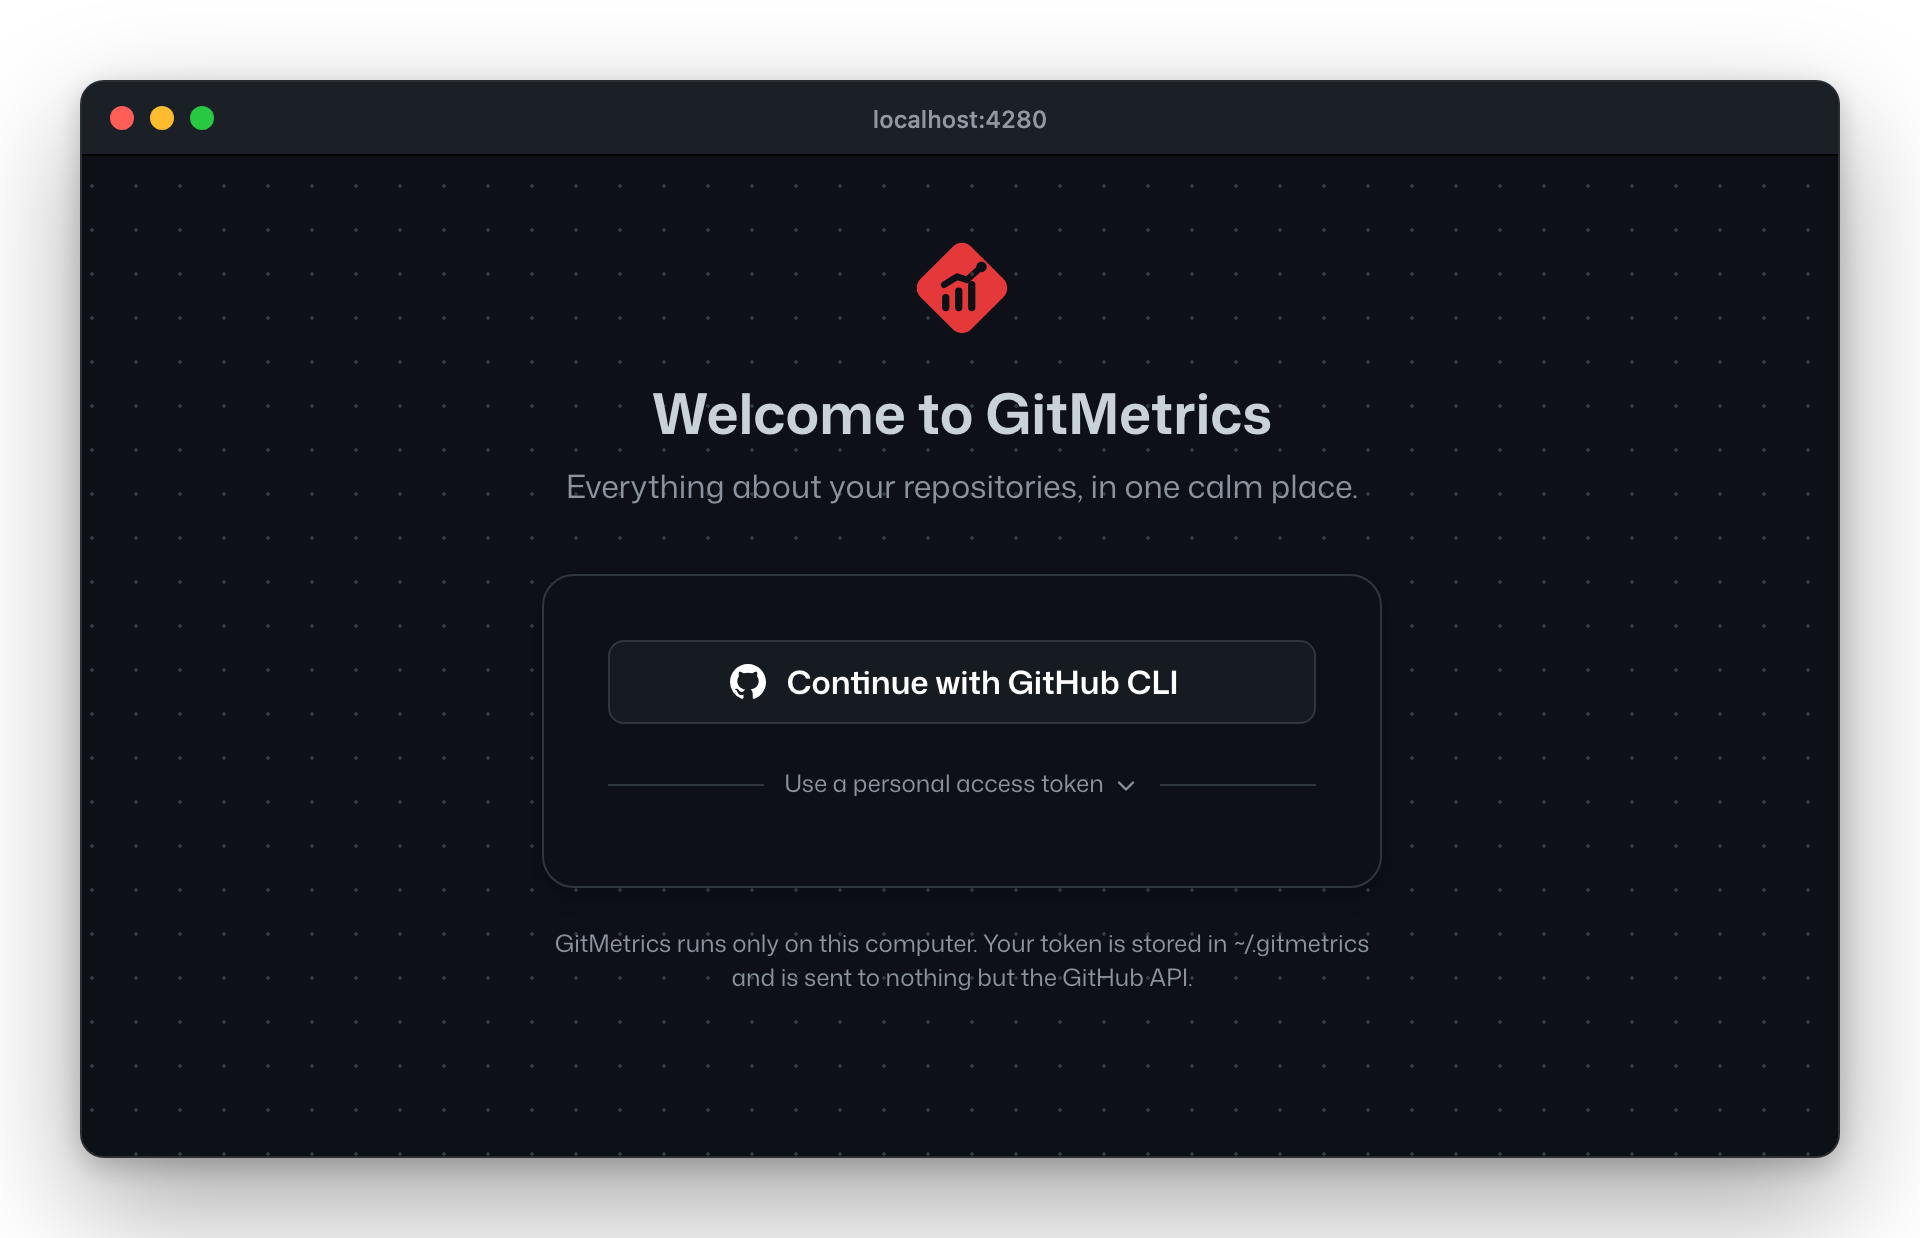
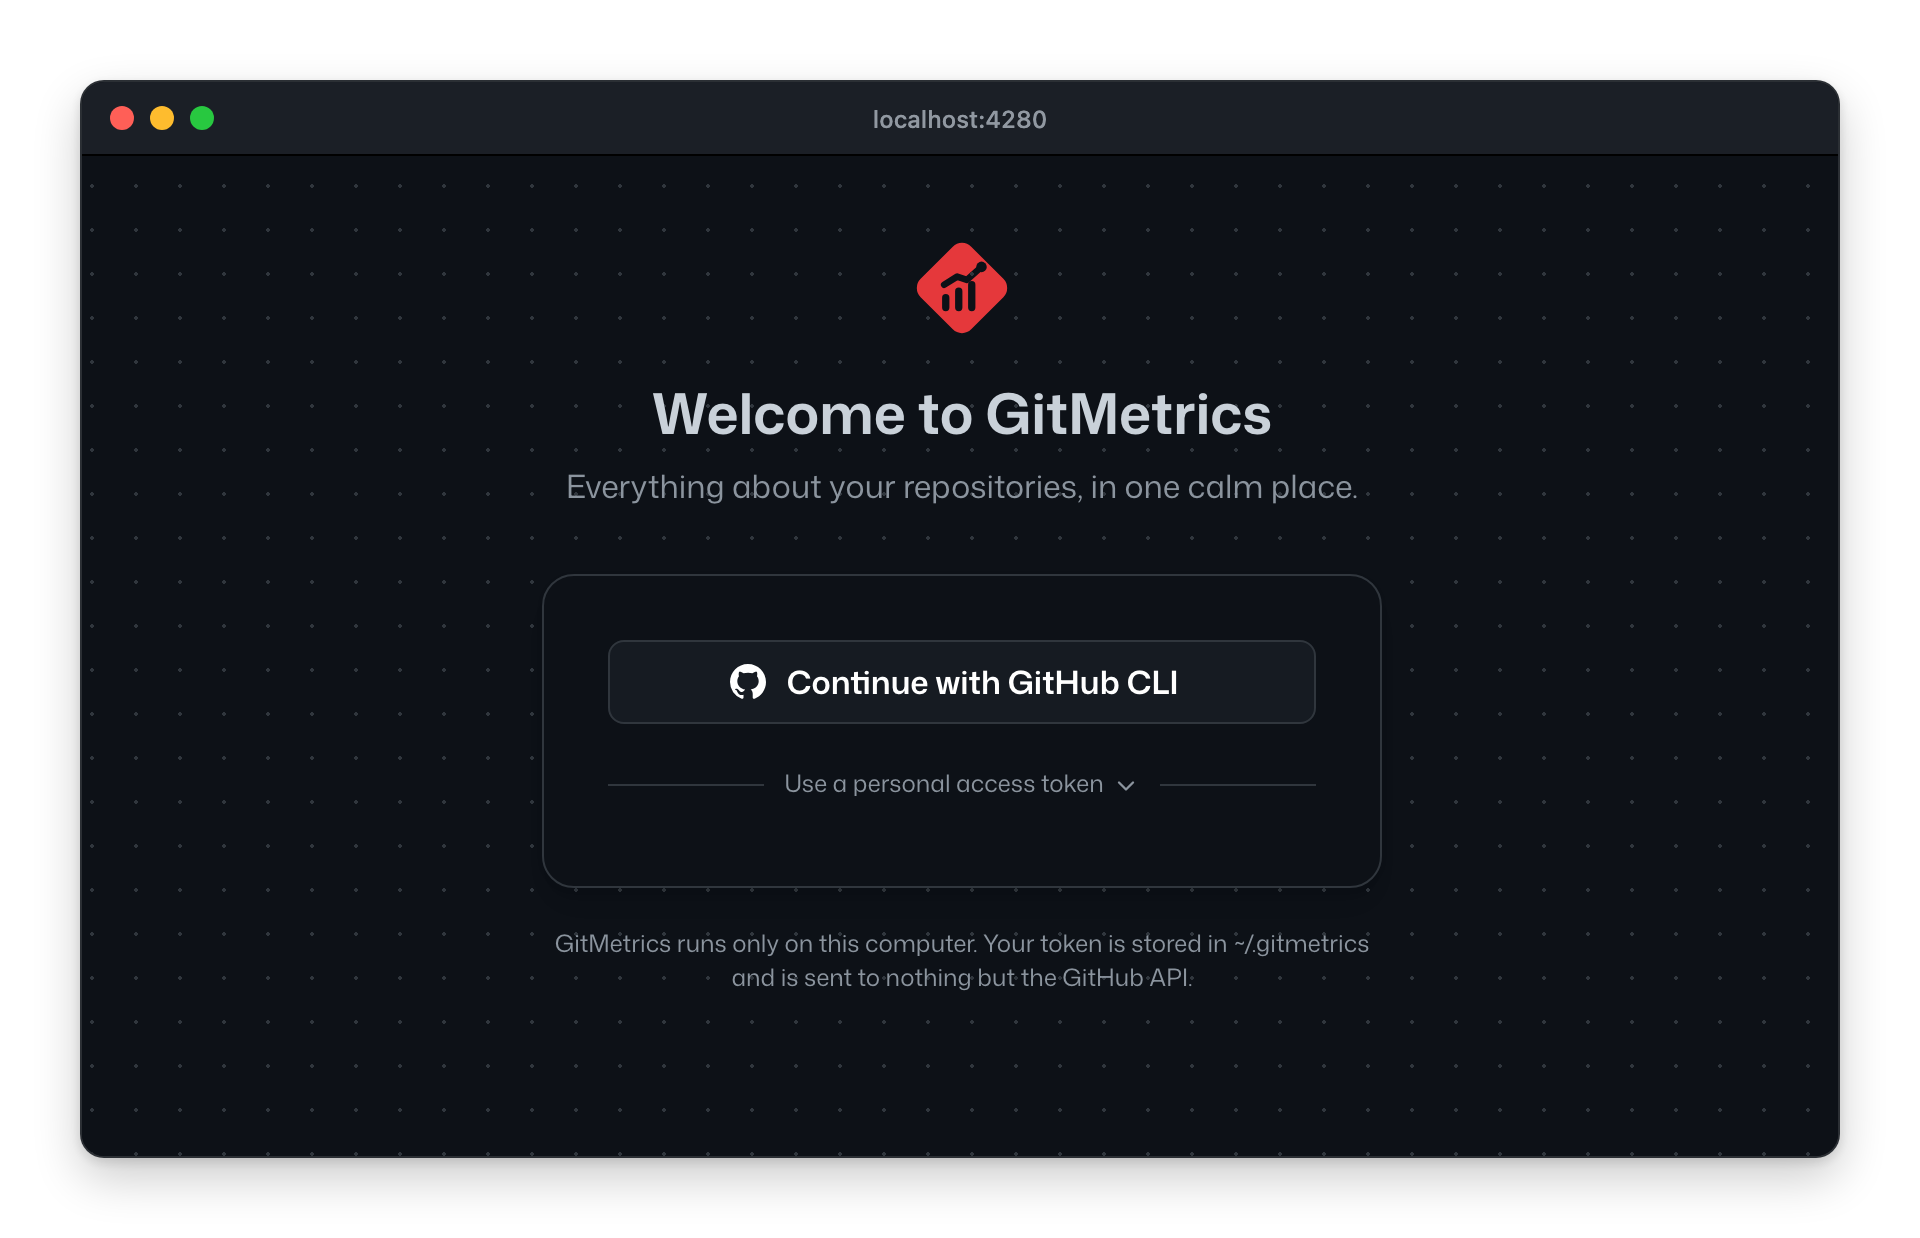
style: softer shadows that fade out inside the pictures
The sign-in and pull request pictures had shadows larger than the room around them, cut in a straight line on light backgrounds like the README's. Their shadows now fade to nothing before the edge.

Changed region(s): [[0.0312, 0.1535, 0.9688, 1.0]]

diff --git a/site/index.html b/site/index.html
@@ -235,8 +235,8 @@
             <img
               src="/pull-request.png"
               alt="A pull request in GitMetrics: its stretches, commits, review requests, reviews and comments over time, and one reviewer's activity"
-              width="1456"
-              height="1077"
+              width="1466"
+              height="1085"
               loading="lazy"
             />
           </picture>
